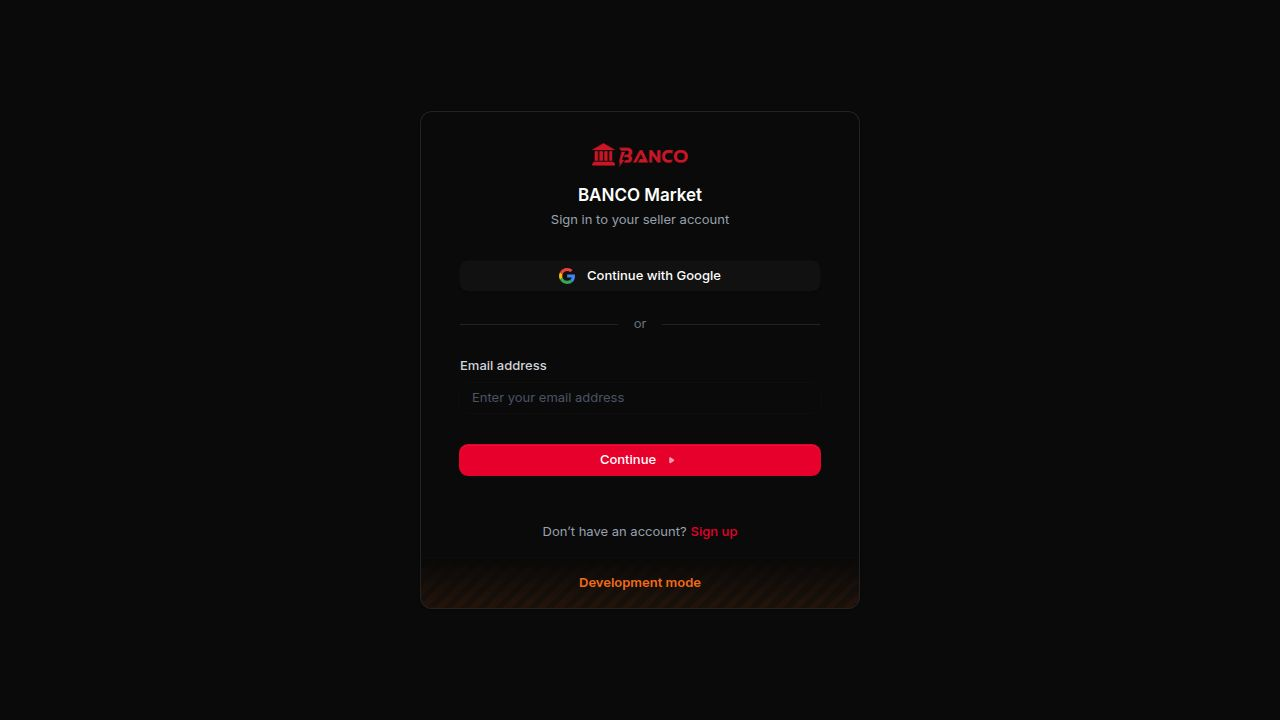
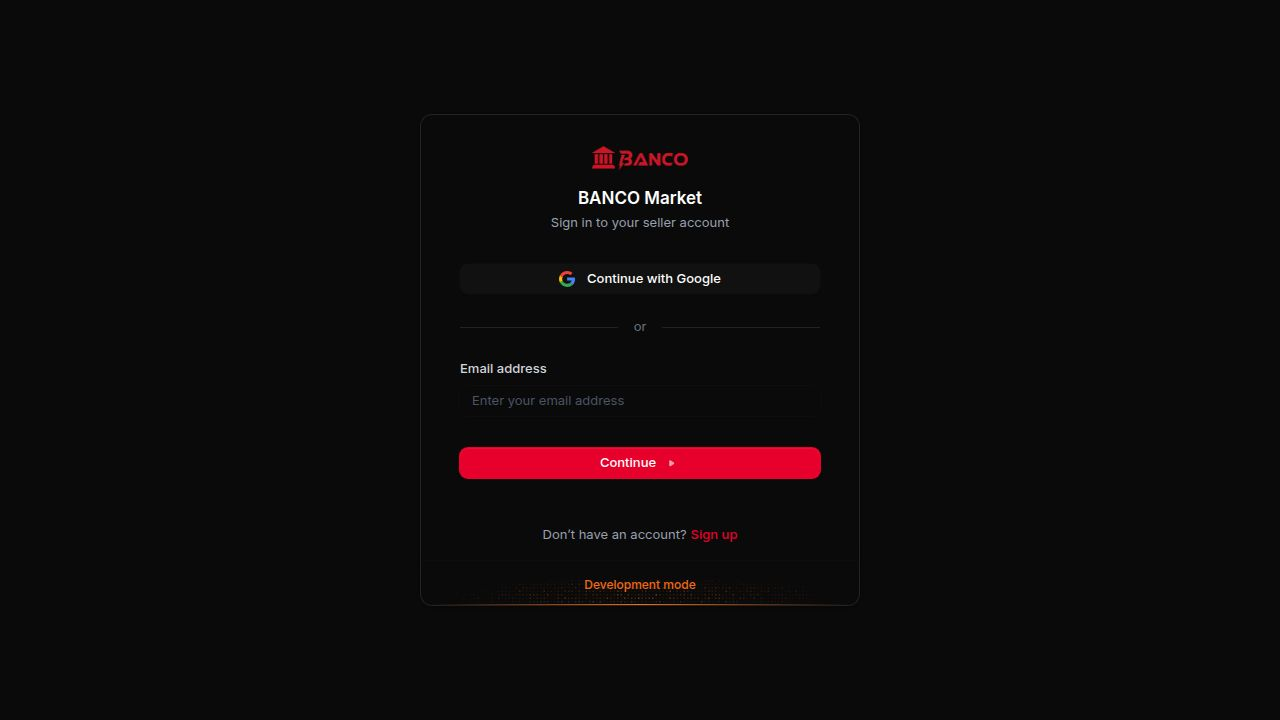
Update documentation to explain how an empty database affects the application's appearance
Add a new memory file explaining that an empty database causes the search UI to appear blank due to facet gating, and provide instructions on how to fix it by running the seed command.

Replit-Commit-Author: Agent
Replit-Commit-Session-Id: ab84d7c2-373c-44c2-b540-f73d68c076e7
Replit-Commit-Checkpoint-Type: full_checkpoint
Replit-Commit-Event-Id: be0d8927-9c80-4afe-b217-543b872b98be
Replit-Commit-Screenshot-Url: https://storage.googleapis.com/screenshot-production-us-central1/fdb55aec-e3ec-4020-8295-fca4f10e07be/ab84d7c2-373c-44c2-b540-f73d68c076e7/eoQyb3L
Replit-Helium-Checkpoint-Created: true

diff --git a/.agents/memory/banco-empty-db-looks-broken.md b/.agents/memory/banco-empty-db-looks-broken.md
@@ -1,0 +1,36 @@
+---
+name: Empty DB looks like a broken app (facet-gated UI)
+description: After a fresh/migrated environment the BANCO DB is empty and the facet-gated UI collapses to blank — looks broken but is just missing data; fix is the manual seed.
+---
+
+# An empty database makes BANCO look totally broken (but the code is fine)
+
+BANCO has **no startup seed** — nothing populates the DB on boot. A freshly
+created or freshly migrated environment connects to an EMPTY database, and the
+app's "honest by design" facet gating then hides almost the entire UI:
+
+- Search category strips (`visibleCategories`) collapse to only "All".
+- Engine/type chip rows (`visibleEngines`) hide entirely (<=1 entry rule).
+- "Browse by section" / brands / trending render nothing.
+- The whole search screen reads as a blank white page; the feed is empty.
+
+To a non-technical user this looks like "search is dead / every service is
+broken." It is NOT a code regression — every endpoint returns HTTP 200, just
+with zero rows.
+
+**Why:** the UI deliberately never surfaces a filter that would yield zero
+results, so with zero inventory the gating correctly hides everything.
+
+**How to diagnose:** `curl localhost:8080/api/v1/search/facets` — if
+`total:0` and every facet map is `{}`, the DB is empty. Confirm with the data
+audit (COUNT on listings/users = 0).
+
+**How to fix:** run the manual seed — `pnpm --filter @workspace/api-server run
+seed` (also `seed:admin` for an admin user). It seeds master data
+(brands/models/locations/plans), ~52-58 demo listings across all categories,
+users, wallets, leads, etc. After seeding, facets show `total>0`, the strips
+reappear automatically (no code change), and the search page renders fully.
+
+**Gotcha:** all 6 artifact workflows can be NOT_STARTED at the same time
+(environment idle/restart); `restart_workflow` each one. Seed data lives in the
+DB and survives workflow restarts.

diff --git a/.agents/memory/MEMORY.md b/.agents/memory/MEMORY.md
@@ -56,4 +56,5 @@
 - [Listing publish button gate](banco-publish-gate.md) — publish `disabled` = `submitting` ONLY; any media/quota pre-gate silently kills it for buyer requests (photos optional). handleSubmit is the real gate; gate seller-only specs on !isRequest
 - [BANCO root landing artifact](banco-landing-minimal.md) — separate `landing` react-vite artifact owns "/" (fixes prod 404) = dark bg + logo + one دخول button → /banco-mobile/; keep it bare, additive-only
 - [BANCO EAS native build](banco-eas-native-build.md) — Expo-Go-only app CAN build a native AAB via EAS, but needs android.package/versionCode+eas.json+EAS env vars AND an expo-build-properties packaging exclude (okhttp5/jspecify META-INF dup) or mergeReleaseJavaResource fails
+- [Empty DB looks broken](banco-empty-db-looks-broken.md) — fresh/migrated env has an EMPTY DB (no startup seed); facet-gating then hides the whole search UI → looks "dead" but code is fine; fix = `pnpm --filter @workspace/api-server run seed`
 - [BANCO install on Replit + env/secret placement](banco-replit-install-env.md) — install with `verify-store-integrity=false`+offline+hardlink to beat the 120s limit (then `pnpm rebuild -r`); sensitive keys (CLERK_SECRET_KEY/EXPO_TOKEN) go to the encrypted secret store via requestEnvVar, never plaintext `.replit`; modelfarm AI URL is dev-only